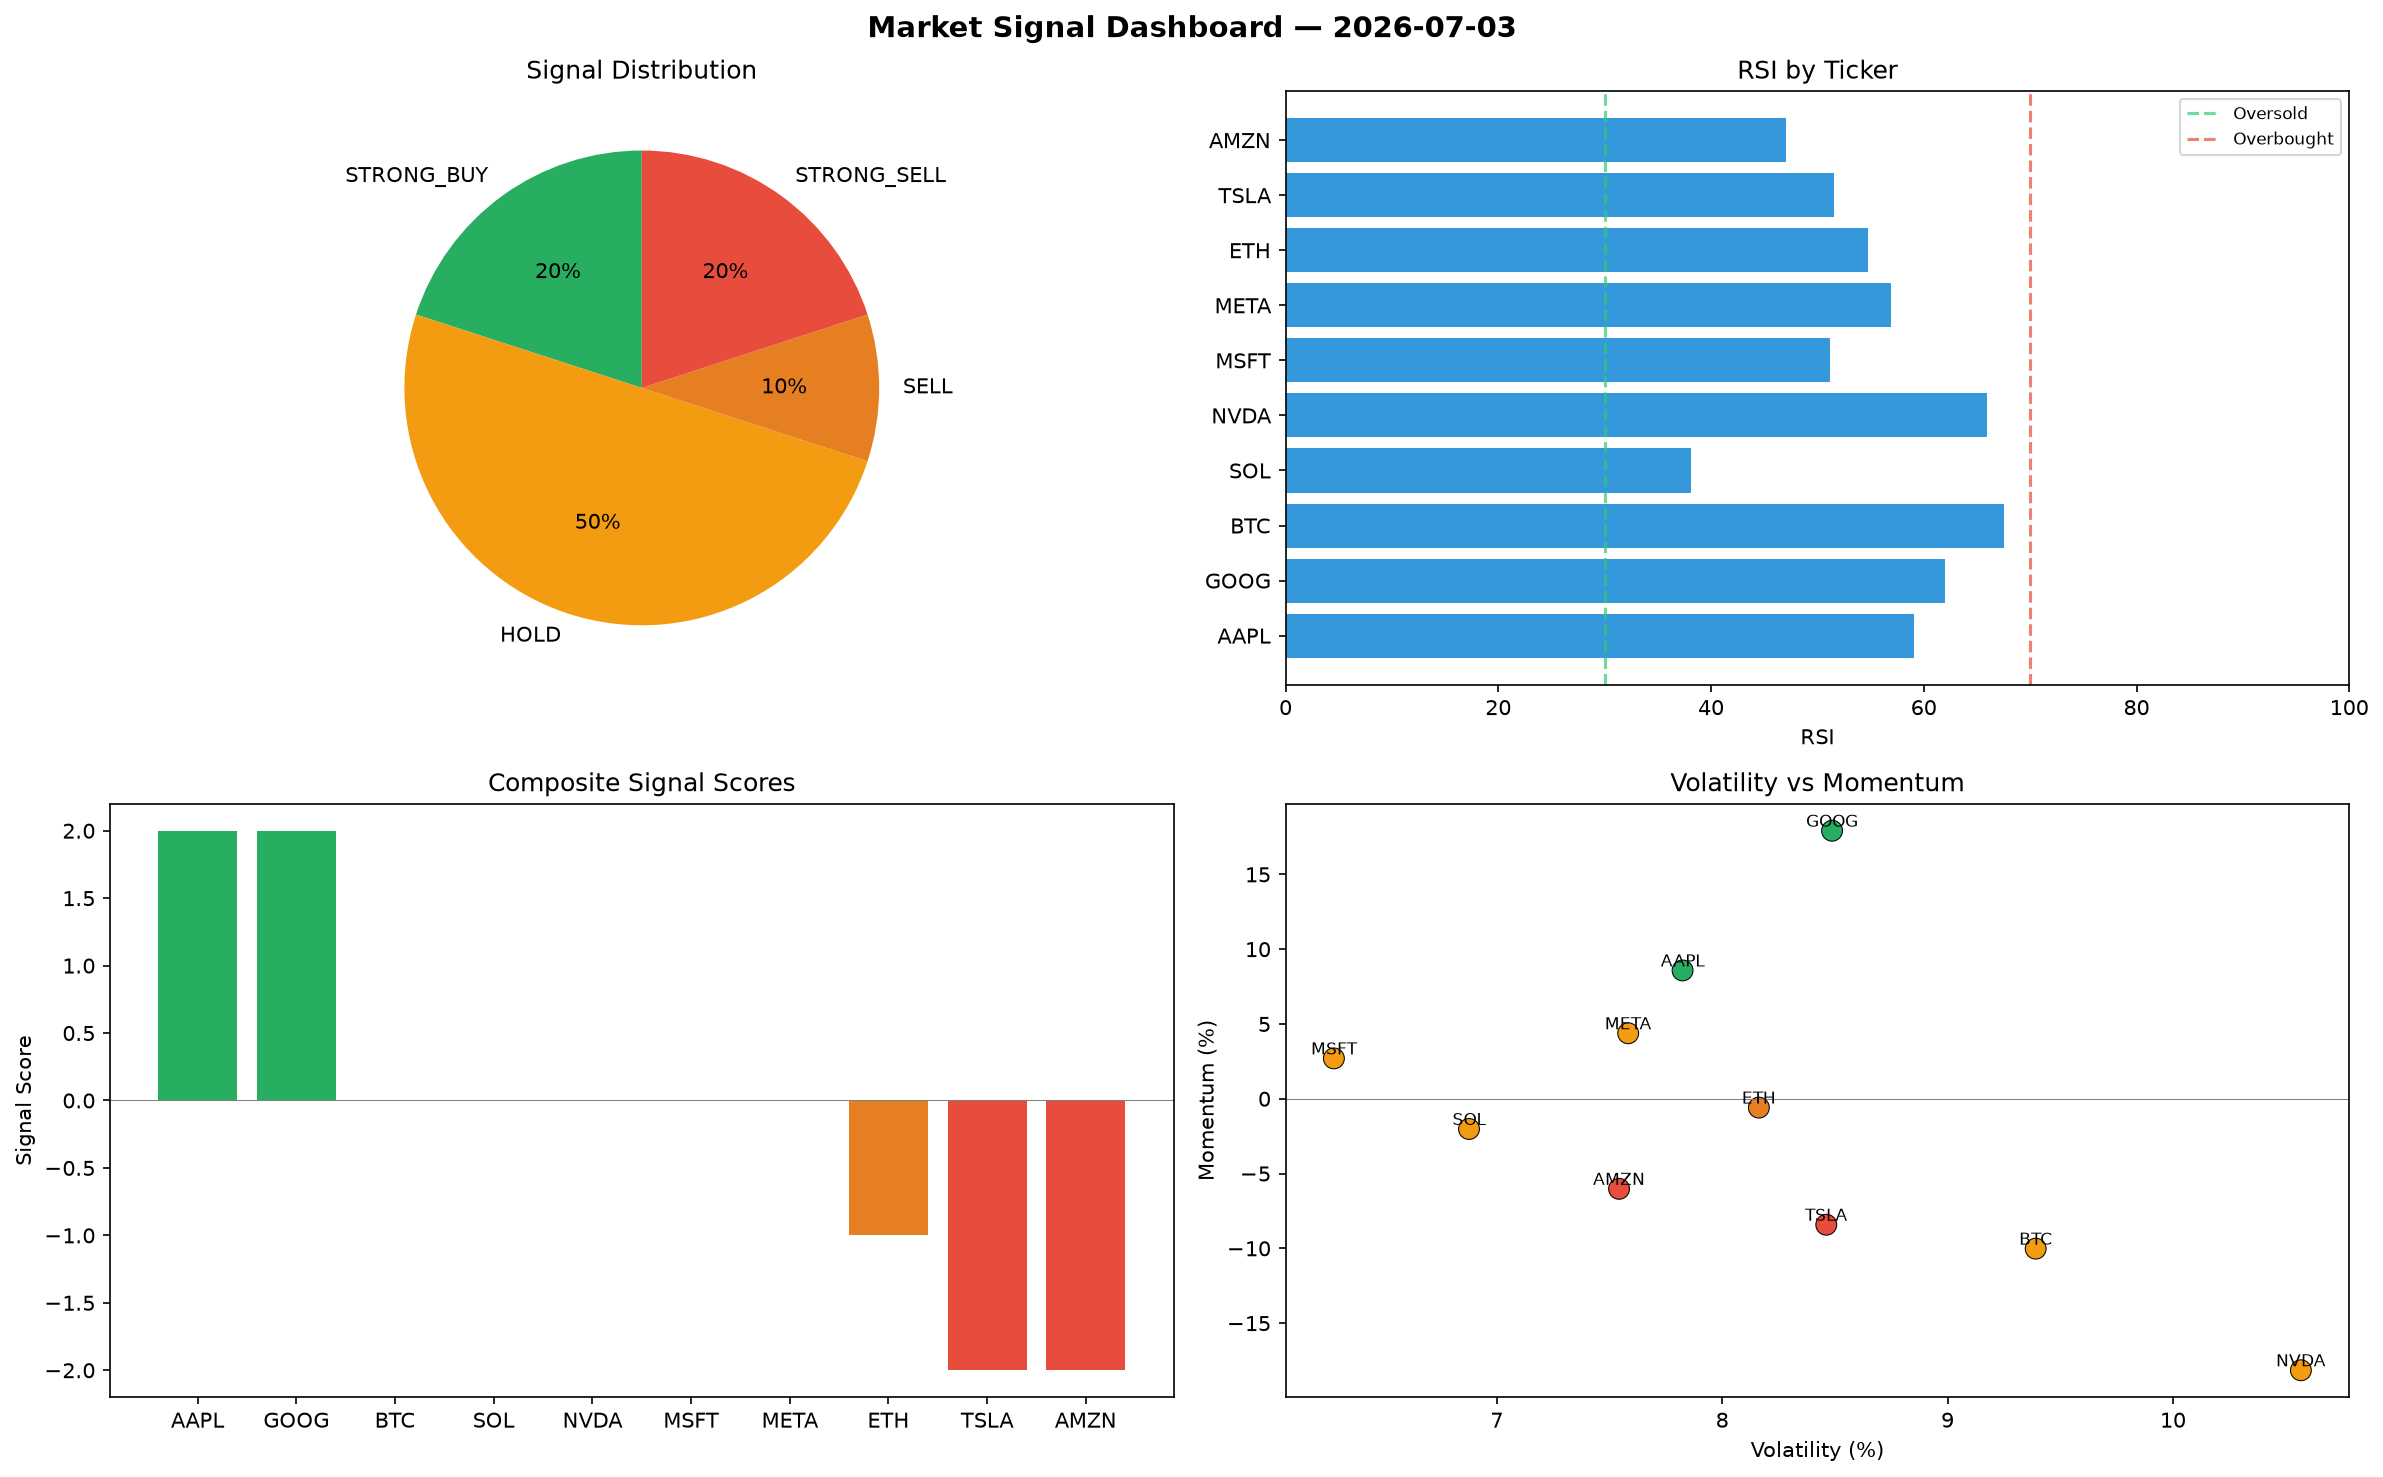
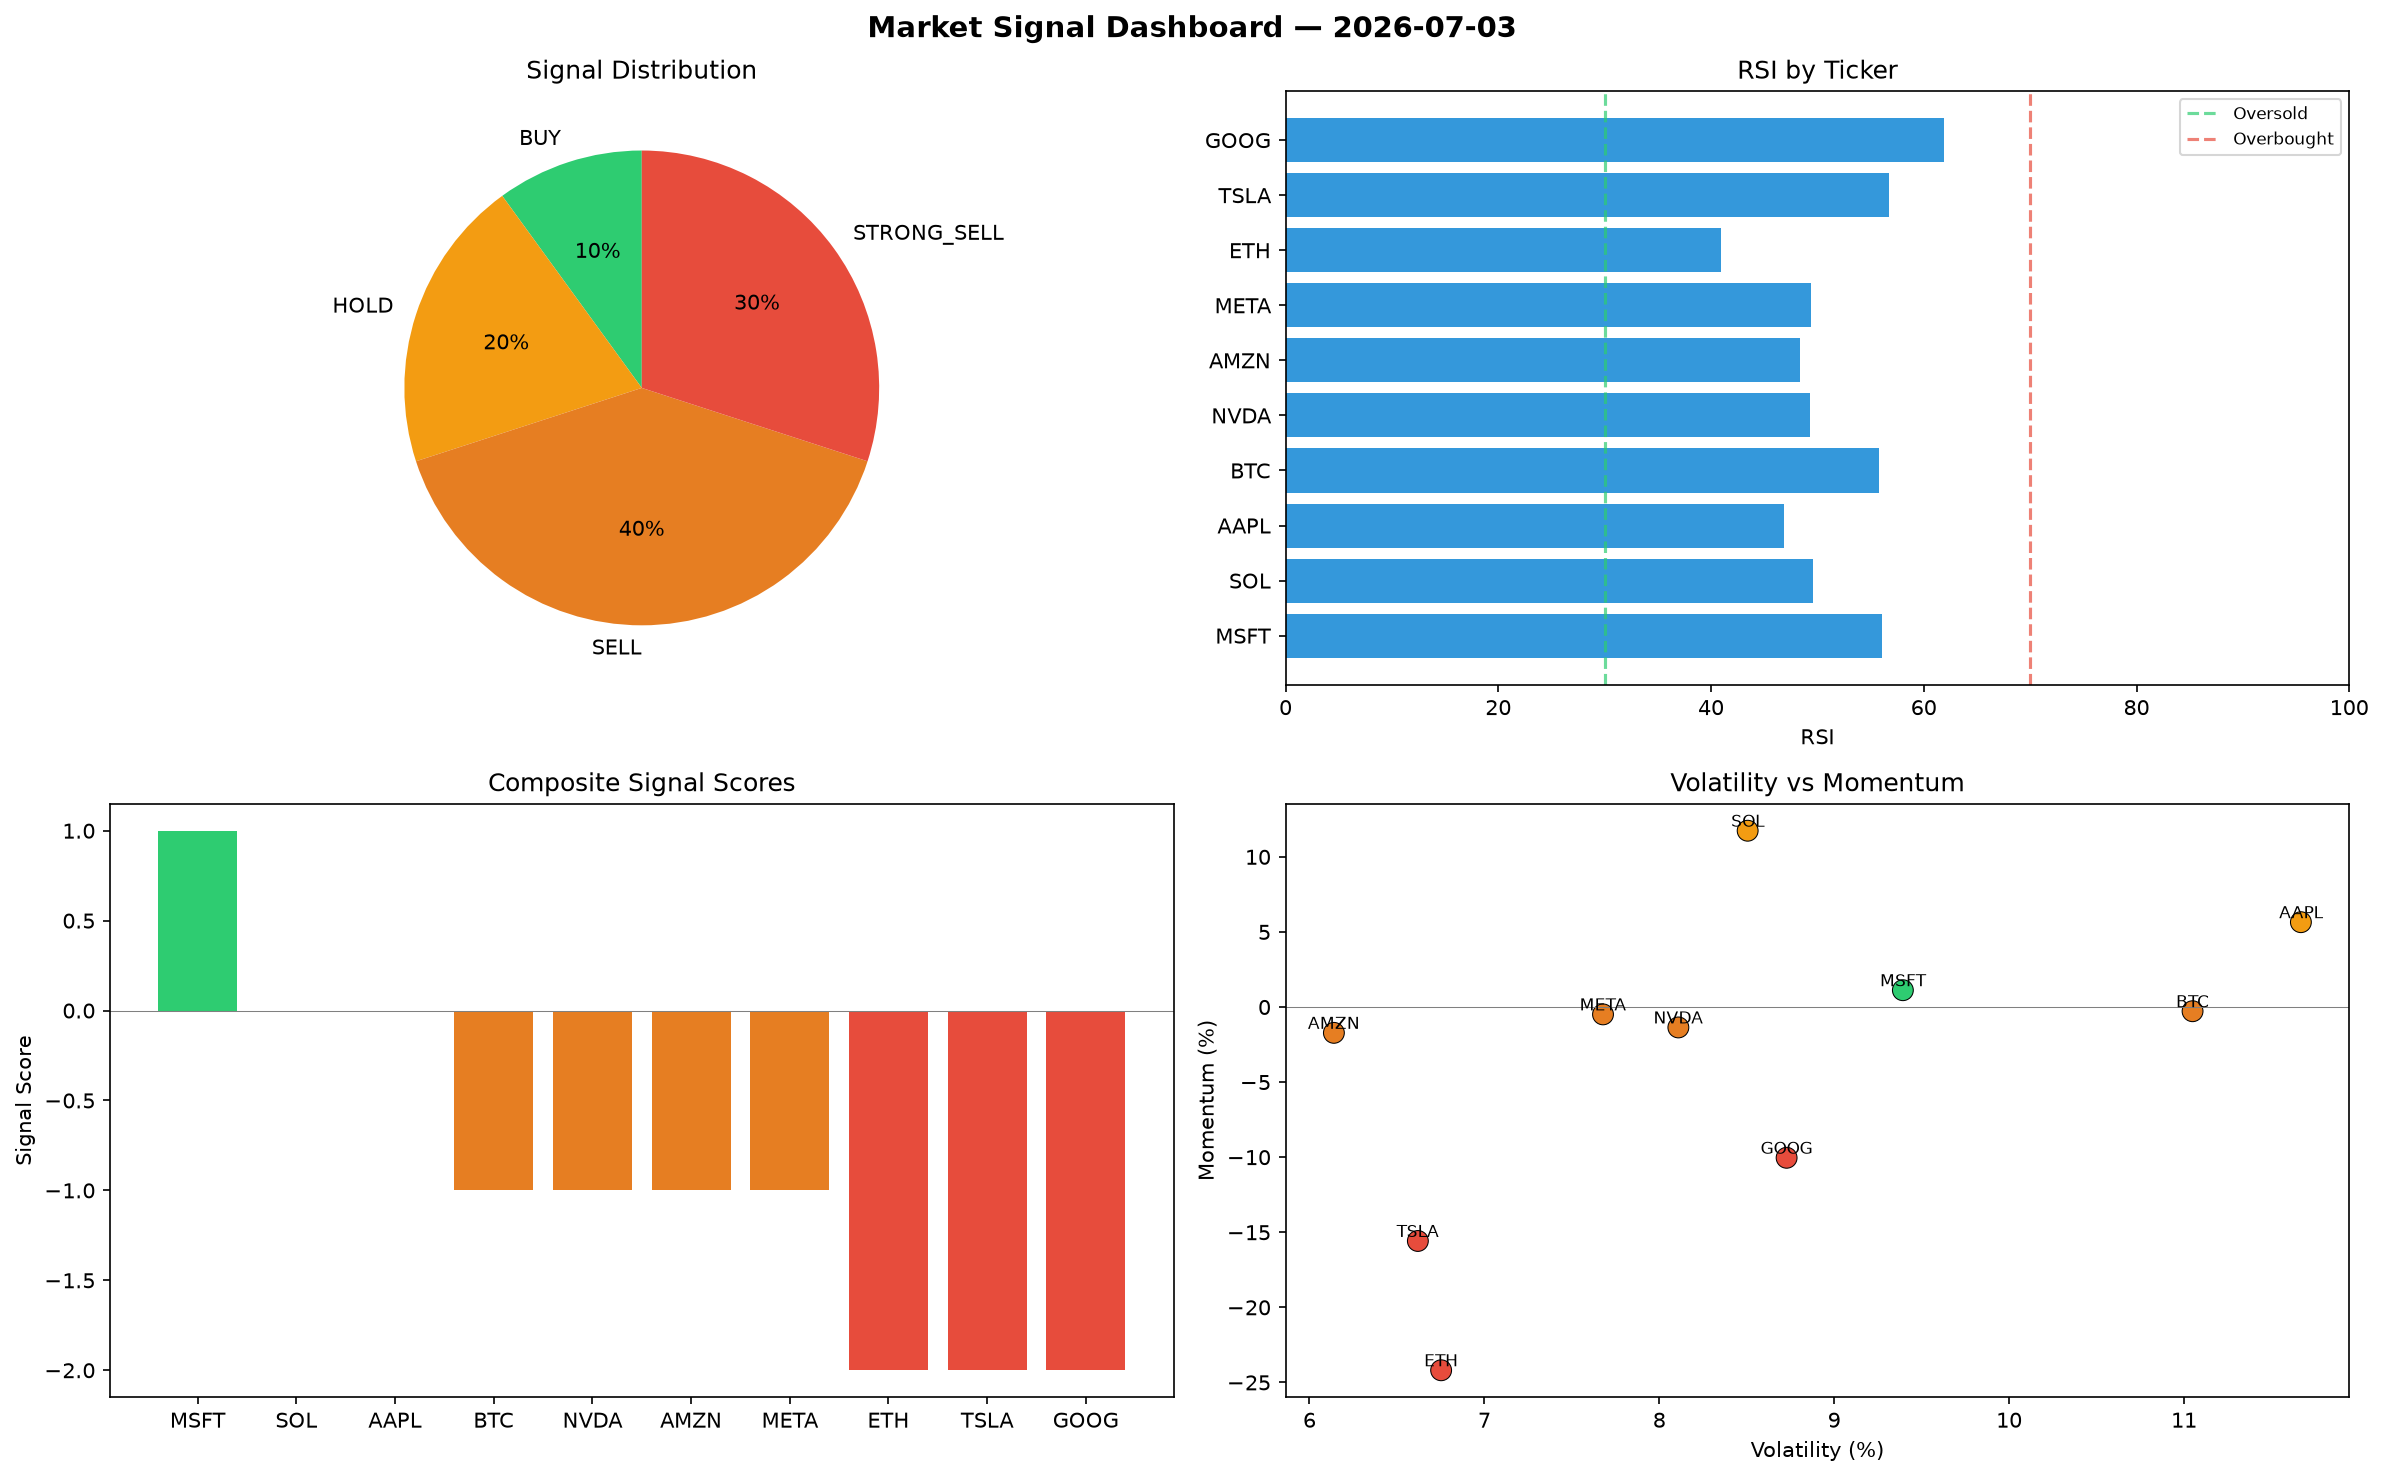
automated-bots: market signals 2026-07-03T16:06

diff --git a/logs/2026-07-03.md b/logs/2026-07-03.md
@@ -1,6 +1,6 @@
 # Market Signal Report — 2026-07-03
 
-**Run ID:** `0253f3b7fe` | **Buy:** 2 | **Sell:** 3 | **Hold:** 5
+**Run ID:** `5c2d57595f` | **Buy:** 1 | **Sell:** 7 | **Hold:** 2
 
 ![Dashboard](2026-07-03_dashboard.png)
 
@@ -8,28 +8,28 @@
 
 | Ticker | Price | Signal | Score | RSI | Momentum | Confidence |
 |--------|-------|--------|-------|-----|----------|------------|
-| AAPL | $3038.91 | **STRONG_BUY** | 2 | 59.05 | 0.0858 | 0.5 |
-| GOOG | $3245.78 | **STRONG_BUY** | 2 | 62.02 | 0.1792 | 0.5 |
-| BTC | $3382.92 | **HOLD** | 0 | 67.58 | -0.1002 | 0.0 |
-| SOL | $1270.74 | **HOLD** | 0 | 38.16 | -0.0202 | 0.0 |
-| NVDA | $2001.58 | **HOLD** | 0 | 65.92 | -0.1815 | 0.0 |
-| MSFT | $2814.42 | **HOLD** | 0 | 51.16 | 0.027 | 0.0 |
-| META | $1564.37 | **HOLD** | 0 | 56.9 | 0.0438 | 0.0 |
-| ETH | $357.7 | **SELL** | -1 | 54.72 | -0.0059 | 0.25 |
-| TSLA | $3003.45 | **STRONG_SELL** | -2 | 51.57 | -0.0842 | 0.5 |
-| AMZN | $3266.18 | **STRONG_SELL** | -2 | 47.06 | -0.0602 | 0.5 |
+| MSFT | $4503.62 | **BUY** | 1 | 56.07 | 0.0112 | 0.25 |
+| SOL | $3037.21 | **HOLD** | 0 | 49.59 | 0.1174 | 0.0 |
+| AAPL | $4517.82 | **HOLD** | 0 | 46.85 | 0.0565 | 0.0 |
+| BTC | $3178.33 | **SELL** | -1 | 55.77 | -0.0028 | 0.25 |
+| NVDA | $201.09 | **SELL** | -1 | 49.35 | -0.0136 | 0.25 |
+| AMZN | $536.89 | **SELL** | -1 | 48.39 | -0.0172 | 0.25 |
+| META | $4773.27 | **SELL** | -1 | 49.41 | -0.0049 | 0.25 |
+| ETH | $3925.87 | **STRONG_SELL** | -2 | 40.93 | -0.2419 | 0.5 |
+| TSLA | $3169.93 | **STRONG_SELL** | -2 | 56.71 | -0.1558 | 0.5 |
+| GOOG | $1243.0 | **STRONG_SELL** | -2 | 61.87 | -0.1004 | 0.5 |
 
 ## Delta vs Yesterday
 
 | Ticker | Today | Yesterday | Price Change | Signal Changed |
 |--------|-------|-----------|-------------|----------------|
-| AAPL | STRONG_BUY | BUY | 📈 565.51% | ⚠ YES |
-| GOOG | STRONG_BUY | STRONG_SELL | 📉 -1.85% | ⚠ YES |
-| BTC | HOLD | STRONG_SELL | 📉 -23.4% | ⚠ YES |
-| SOL | HOLD | STRONG_SELL | 📉 -60.94% | ⚠ YES |
-| NVDA | HOLD | HOLD | 📉 -6.84% | — |
-| MSFT | HOLD | BUY | 📉 -39.8% | ⚠ YES |
-| META | HOLD | HOLD | 📉 -22.56% | — |
-| ETH | SELL | STRONG_BUY | 📉 -88.06% | ⚠ YES |
-| TSLA | STRONG_SELL | BUY | 📈 770.82% | ⚠ YES |
-| AMZN | STRONG_SELL | STRONG_BUY | 📉 -26.94% | ⚠ YES |
+| MSFT | BUY | BUY | 📉 -3.67% | — |
+| SOL | HOLD | STRONG_SELL | 📉 -6.63% | ⚠ YES |
+| AAPL | HOLD | BUY | 📈 889.38% | ⚠ YES |
+| BTC | SELL | STRONG_SELL | 📉 -28.03% | ⚠ YES |
+| NVDA | SELL | HOLD | 📉 -90.64% | ⚠ YES |
+| AMZN | SELL | STRONG_BUY | 📉 -87.99% | ⚠ YES |
+| META | SELL | HOLD | 📈 136.28% | ⚠ YES |
+| ETH | STRONG_SELL | STRONG_BUY | 📈 31.02% | ⚠ YES |
+| TSLA | STRONG_SELL | BUY | 📈 819.09% | ⚠ YES |
+| GOOG | STRONG_SELL | STRONG_SELL | 📉 -62.41% | — |
